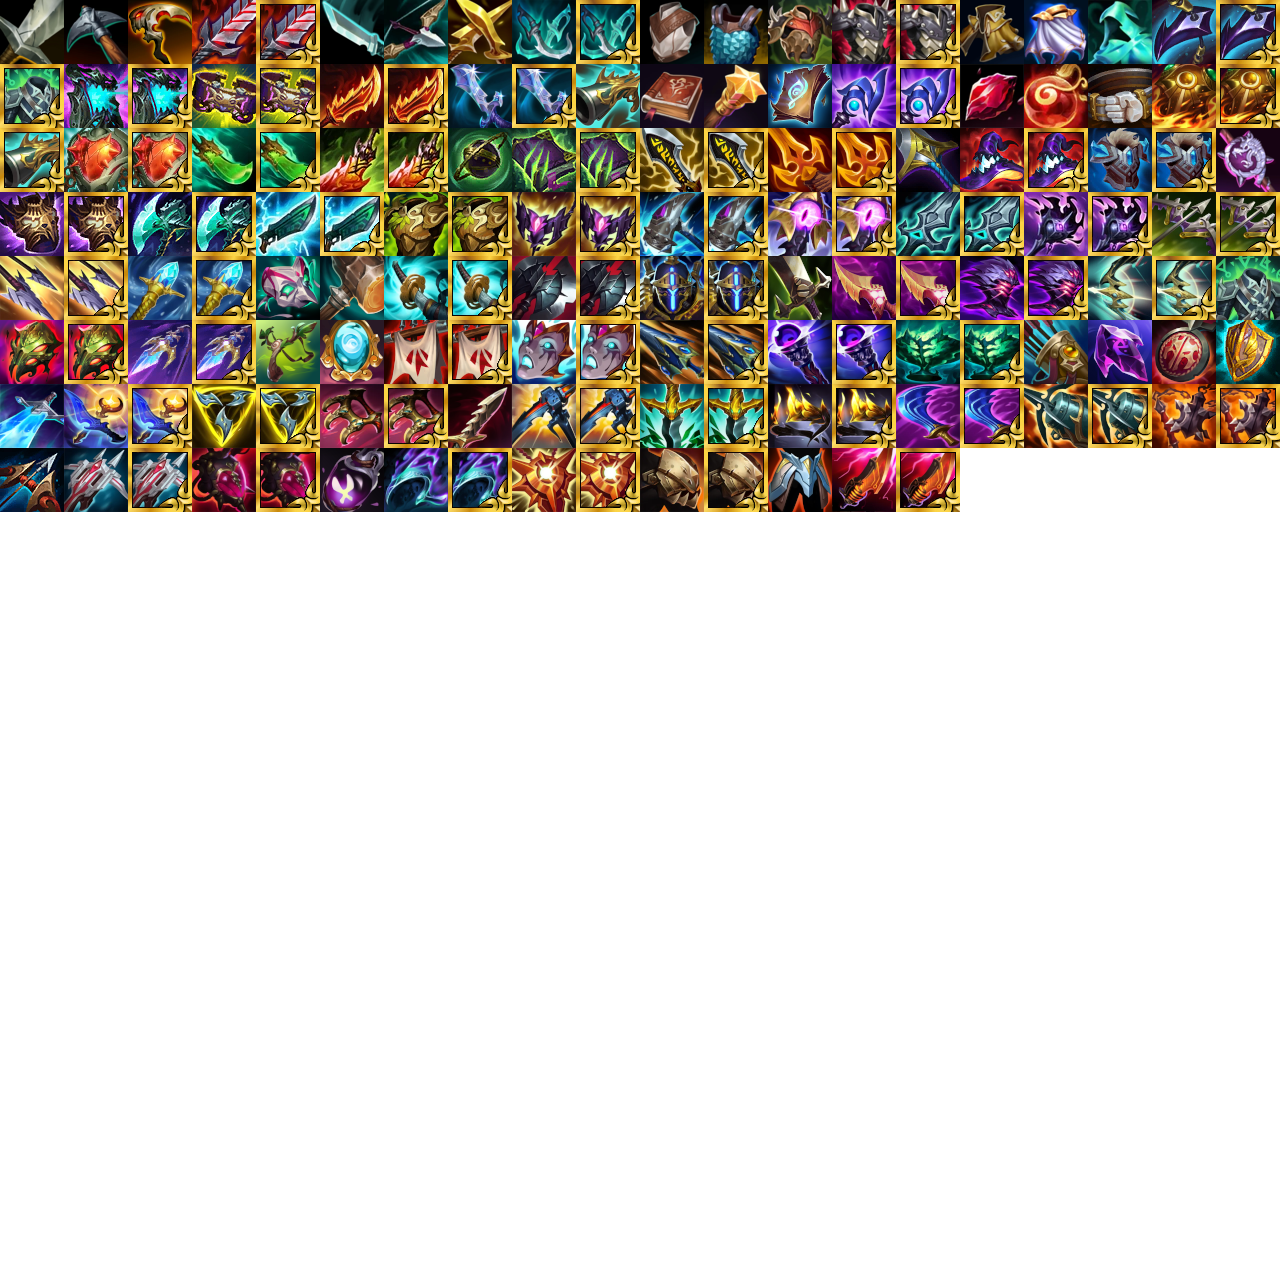
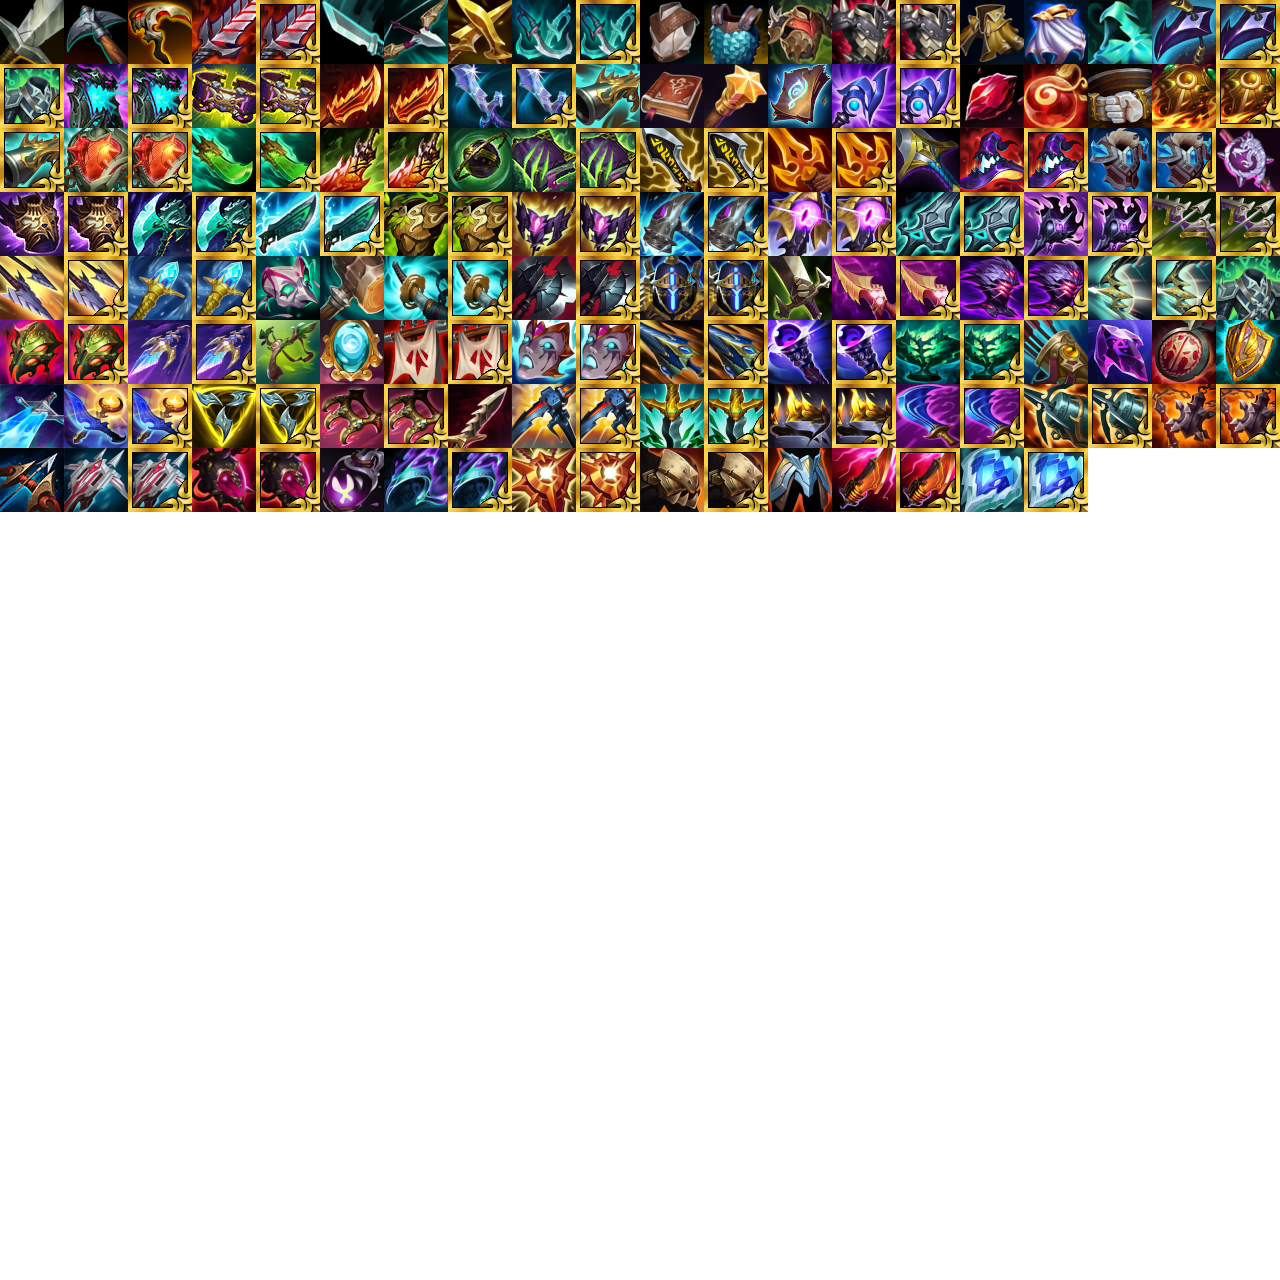
Added frozen heart and fixed text generation issue

Changed region(s): [[0.75, 0.3438, 0.875, 0.4062]]

diff --git a/src/items/frozen_heart.rs b/src/items/frozen_heart.rs
@@ -1,0 +1,197 @@
+use mod_api_stable::*;
+
+use crate::config::ItemConfig;
+use crate::{
+    apply_config, has_buff, ItemMeta, BUFF_REFRESH_DURATION_TICKS, BUFF_REFRESH_PERIOD_TICKS,
+    DISTANCE_UNITS_PER_RANGE,
+};
+
+#[derive(Clone, Debug)]
+pub struct FrozenHeart {
+    meta: ItemMeta,
+    // Buff names are namespaced per variant so the base and radiant
+    // items keep independent stacks.
+    aura_buff: &'static str,
+    price: usize,
+    defence: i32,
+    skill_cooldown_mult: i32,
+    skill_damaged_reduce: usize,
+    effect_attack_speed_reduce: i32,
+    effect_max_distance: usize,
+    refresh_cooldown: usize,
+}
+
+impl FrozenHeart {
+    pub fn base() -> Self {
+        Self {
+            meta: ItemMeta::base(
+                "frozen_heart",
+                &["gatekeepers_armor"],
+                &["radiant_frozen_heart"],
+            ),
+            aura_buff: "frozen_heart_aura",
+            price: 1300,
+            defence: 65,
+            skill_cooldown_mult: 10,
+            skill_damaged_reduce: 10,
+            effect_attack_speed_reduce: 30,
+            effect_max_distance: 100,
+            refresh_cooldown: 0,
+        }
+    }
+
+    pub fn radiant() -> Self {
+        Self {
+            meta: ItemMeta::radiant("radiant_frozen_heart", &["frozen_heart"]),
+            aura_buff: "radiant_frozen_heart_aura",
+            price: 1900,
+            defence: 110,
+            skill_cooldown_mult: 15,
+            skill_damaged_reduce: 15,
+            ..Self::base()
+        }
+    }
+
+    pub fn with_config(cfg: &ItemConfig) -> Self {
+        Self::base().configured(cfg)
+    }
+
+    pub fn radiant_with_config(cfg: &ItemConfig) -> Self {
+        Self::radiant().configured(cfg)
+    }
+
+    fn configured(mut self, cfg: &ItemConfig) -> Self {
+        apply_config!(
+            self,
+            cfg,
+            [
+                price,
+                defence,
+                skill_cooldown_mult,
+                skill_damaged_reduce,
+                effect_attack_speed_reduce,
+                effect_max_distance
+            ]
+        );
+        self
+    }
+
+    /// Winter's Caress. Same shape as the friendly auras (`zekes_herald`,
+    /// `locket_of_the_iron_solari`) but pointed at the other team: a short
+    /// `Time` buff re-applied on a slightly shorter cycle, so an enemy that
+    /// walks out of range recovers its attack speed within a second.
+    fn apply_aura(&mut self, ctx: &mut StableSim<'_>, player: usize) {
+        if self.refresh_cooldown > 0 {
+            self.refresh_cooldown -= 1;
+            return;
+        }
+
+        let Some(player_ref) = ctx.get_player(player) else {
+            return;
+        };
+        let Some(caster) = player_ref.champion() else {
+            return;
+        };
+        let caster_id = caster.id();
+        let caster_team = caster.team();
+
+        let range = (self.effect_max_distance * DISTANCE_UNITS_PER_RANGE) as u64;
+        let range_sq = range * range;
+
+        let mut targets: Vec<usize> = Vec::new();
+        for index in 0..ctx.champion_count() {
+            let id = ctx.champion_id_at(index);
+            let Some(entity_ref) = ctx.get_entity(id) else {
+                continue;
+            };
+            if !entity_ref.is_alive() || entity_ref.team() == caster_team {
+                continue;
+            }
+            if ctx.distance_sq(caster_id, id) > range_sq {
+                continue;
+            }
+            if !has_buff(&entity_ref, self.aura_buff) {
+                targets.push(id);
+            }
+        }
+
+        for id in targets {
+            ctx.add_buff(
+                id,
+                &BuffV1 {
+                    attack_speed_mult: -self.effect_attack_speed_reduce,
+                    ..BuffV1::timed(self.aura_buff, BUFF_REFRESH_DURATION_TICKS)
+                },
+            );
+        }
+
+        self.refresh_cooldown = BUFF_REFRESH_PERIOD_TICKS;
+    }
+}
+
+impl Default for FrozenHeart {
+    fn default() -> Self {
+        Self::base()
+    }
+}
+
+impl StableItem for FrozenHeart {
+    fn clone_box(&self) -> Box<dyn StableItem> {
+        Box::new(self.clone())
+    }
+
+    fn key(&self) -> String {
+        self.meta.key.to_string()
+    }
+
+    fn icon(&self) -> String {
+        self.meta.key.to_string()
+    }
+
+    fn price(&self) -> usize {
+        self.price
+    }
+
+    fn tier(&self) -> usize {
+        self.meta.tier
+    }
+
+    fn previous_tier(&self) -> Vec<String> {
+        self.meta.previous_tier()
+    }
+
+    fn next_tier(&self) -> Vec<String> {
+        self.meta.next_tier()
+    }
+
+    fn stat(&self) -> BuffV1 {
+        BuffV1 {
+            defence: self.defence,
+            skill_cooldown_mult: self.skill_cooldown_mult,
+            ult_cooldown_mult: self.skill_cooldown_mult,
+            skill_damaged_reduce: self.skill_damaged_reduce,
+            ..Default::default()
+        }
+    }
+
+    fn on_spawn(&mut self, ctx: &mut StableSim<'_>, player: usize) {
+        self.refresh_cooldown = 0;
+        self.apply_aura(ctx, player);
+    }
+
+    fn update(&mut self, ctx: &mut StableSim<'_>, _rng_seed: u64, player: usize) {
+        self.apply_aura(ctx, player);
+    }
+
+    fn tags(&self) -> Vec<ItemTagV1> {
+        vec![
+            ItemTagV1::Defense,
+            ItemTagV1::CooltimeReduce,
+            ItemTagV1::AsDebuff,
+        ]
+    }
+
+    fn category(&self) -> ItemCategoryV1 {
+        ItemCategoryV1::Defense
+    }
+}

diff --git a/src/lib.rs b/src/lib.rs
@@ -362,6 +362,7 @@ fn init(host: &StableHost) -> StableMod {
     reg.add_item(configured!("dusk_and_dawn" => DuskAndDawn));
     reg.add_item(configured!("echoes_of_helia" => EchoesOfHelia));
     reg.add_item(configured!("experimental_hexplate" => ExperimentalHexplate));
+    reg.add_item(configured!("frozen_heart" => FrozenHeart));
     reg.add_item(configured!("frozen_mallet" => FrozenMallet));
     reg.add_item(configured!("guinsoos_rageblade" => GuinsoosRageblade));
     reg.add_item(configured!("heartsteel" => Heartsteel));
@@ -418,6 +419,7 @@ fn init(host: &StableHost) -> StableMod {
     reg.add_item(configured_radiant!("radiant_dusk_and_dawn" => DuskAndDawn));
     reg.add_item(configured_radiant!("radiant_echoes_of_helia" => EchoesOfHelia));
     reg.add_item(configured_radiant!("radiant_experimental_hexplate" => ExperimentalHexplate));
+    reg.add_item(configured_radiant!("radiant_frozen_heart" => FrozenHeart));
     reg.add_item(configured_radiant!("radiant_frozen_mallet" => FrozenMallet));
     reg.add_item(configured_radiant!("radiant_guinsoos_rageblade" => GuinsoosRageblade));
     reg.add_item(configured_radiant!("radiant_heartsteel" => Heartsteel));

diff --git a/src/config.rs b/src/config.rs
@@ -24,6 +24,7 @@ pub struct ItemConfig {
     pub magic_resistance_penetration: Option<usize>,
     pub skill_cooldown_mult: Option<i32>,
     pub ult_cooldown_mult: Option<i32>,
+    pub skill_damaged_reduce: Option<usize>,
     pub vamp: Option<i32>,
 
     pub effect_adaptive_force: Option<i32>,
@@ -46,6 +47,7 @@ pub struct ItemConfig {
     pub effect_armor_pen_per_stack: Option<usize>,
     pub effect_magic_pen_per_stack: Option<usize>,
     pub effect_slow_amount: Option<i32>,
+    pub effect_attack_speed_reduce: Option<i32>,
     pub effect_damaged_amplify: Option<usize>,
     pub effect_lethality: Option<usize>,
     pub effect_bonus_lethality: Option<usize>,

diff --git a/src/item_catalog.rs b/src/item_catalog.rs
@@ -45,6 +45,7 @@ const CATEGORY_OF: &[(&str, &str)] = &[
     ("dusk_and_dawn", "Mage"),
     ("echoes_of_helia", "Support"),
     ("experimental_hexplate", "Fighter"),
+    ("frozen_heart", "Tank"),
     ("frozen_mallet", "Fighter"),
     ("guinsoos_rageblade", "Marksman"),
     ("heartsteel", "Tank"),

diff --git a/src/items/mod.rs b/src/items/mod.rs
@@ -35,6 +35,7 @@ items! {
     echoes_of_helia,
     executioners_calling,
     experimental_hexplate,
+    frozen_heart,
     frozen_mallet,
     glowing_mote,
     guinsoos_rageblade,

diff --git a/README.md b/README.md
@@ -1,5 +1,5 @@
 Adds items inspired from Riot Games (LoL, TFT) to Teamfight Manager 2.  
-Reskins the 30 existing items and also adds 125 new items (71 base + 54 Radiant) to the game.
+Reskins the 30 existing items and also adds 127 new items (72 base + 55 Radiant) to the game.
 
 ##### Check it out on Steam Workshop! 
 https://steamcommunity.com/sharedfiles/filedetails/?id=3739568852
@@ -59,6 +59,7 @@ https://docs.google.com/spreadsheets/d/e/2PACX-1vRnFUzULF0sIUQt4UwlOf0CGtuc9nJWp
 | **Dusk and Dawn** | 1400G | +200 HP<br>+60 AP<br>+15% AS<br>+10% CDR | Spellblade: Landing an Ability on an enemy champion causes your next attack to deal 85 + 15% of your Ability Power as bonus magic damage and heal you for 10% of your Ability Power and 2.5% of your maximum health (3.5 second cooldown). |
 | **Echoes of Helia** | 1100G | +250 HP<br>+4 HP Regen<br>+45 AP<br>+15% CDR | Soul Siphon: Store 30% of the damage you deal or take as Soul Charges, up to 130 - 350 (based on level). Upon landing an Ability on an enemy champion, consume all Soul Charges and heal the nearest ally equal to the consumed amount. |
 | **Experimental Hexplate** | 1200G | +350 HP<br>+35% AS | Reduce the cooldown of your ultimate ability by 15%. |
+| **Frozen Heart** | 1300G | +65 Armor<br>+10% CDR<br>+10% Skill DMG Reduction | Winter's Caress: Reduce the attack speed of enemy champions within 100 range by 30%. |
 | **Frozen Mallet** | 1400G | +400 HP<br>+40 AD | On attack, apply a 15% slow for 2 seconds. |
 | **Guinsoo's Rageblade** | 1350G | +30 AD<br>+30 AP<br>+30% AS | Your basic attacks deal 30 bonus magic damage.<br>On attack, gain 8% attack speed for 4 seconds (max 4 stacks). |
 | **Heartsteel** | 1500G | +500 HP | Every 20 seconds, your next attack deals bonus physical damage equal to 15 + 6% of your maximum health, granting 12% of that damage as permanent bonus health. |
@@ -118,6 +119,7 @@ https://docs.google.com/spreadsheets/d/e/2PACX-1vRnFUzULF0sIUQt4UwlOf0CGtuc9nJWp
 | **Radiant Dusk and Dawn** | 2000G | +300 HP<br>+100 AP<br>+25% AS<br>+20% CDR | Spellblade: Landing an Ability on an enemy champion causes your next attack to deal 85 + 15% of your Ability Power as bonus magic damage and heal you for 10% of your Ability Power and 2.5% of your maximum health (3.5 second cooldown). |
 | **Radiant Echoes of Helia** | 1500G | +450 HP<br>+6 HP Regen<br>+65 AP<br>+20% CDR | Soul Siphon: Store 30% of the damage you deal or take as Soul Charges, up to 130 - 350 (based on level). Upon landing an Ability on an enemy champion, consume all Soul Charges and heal the nearest ally equal to the consumed amount. |
 | **Radiant Experimental Hexplate** | 1850G | +500 HP<br>+50% AS<br>+5% MS | Reduce the cooldown of your ultimate ability by 25%. |
+| **Radiant Frozen Heart** | 1900G | +110 Armor<br>+15% CDR<br>+15% Skill DMG Reduction | Winter's Caress: Reduce the attack speed of enemy champions within 100 range by 30%. |
 | **Radiant Frozen Mallet** | 2000G | +600 HP<br>+60 AD | On attack, deal bonus physical damage equal to 20 + 3% of your maximum health and apply a 15% slow for 2 seconds. |
 | **Radiant Guinsoo's Rageblade** | 1900G | +50 AD<br>+50 AP<br>+50% AS | Your basic attacks deal 30 bonus magic damage.<br>On attack, gain 8% attack speed for 4 seconds (max 4 stacks). |
 | **Radiant Heartsteel** | 2100G | +800 HP | Every 20 seconds, your next attack deals bonus physical damage equal to 15 + 6% of your maximum health, granting 12% of that damage as permanent bonus health. |

diff --git a/workshop_desc.md b/workshop_desc.md
@@ -1,4 +1,4 @@
-Adds 125 new items (71 base + 54 Radiant) inspired by Riot Games (LoL/TFT/Arena) to Teamfight Manager 2.  
+Adds 127 new items (72 base + 55 Radiant) inspired by Riot Games (LoL/TFT/Arena) to Teamfight Manager 2.  
 
 Also re-skins the 30 existing items and adds some custom icons for Armor Penetration, Magic Penetration, Cooldown Reduction, Tenacity, Omnivamp, and Skill Damage Reduction.  
 
